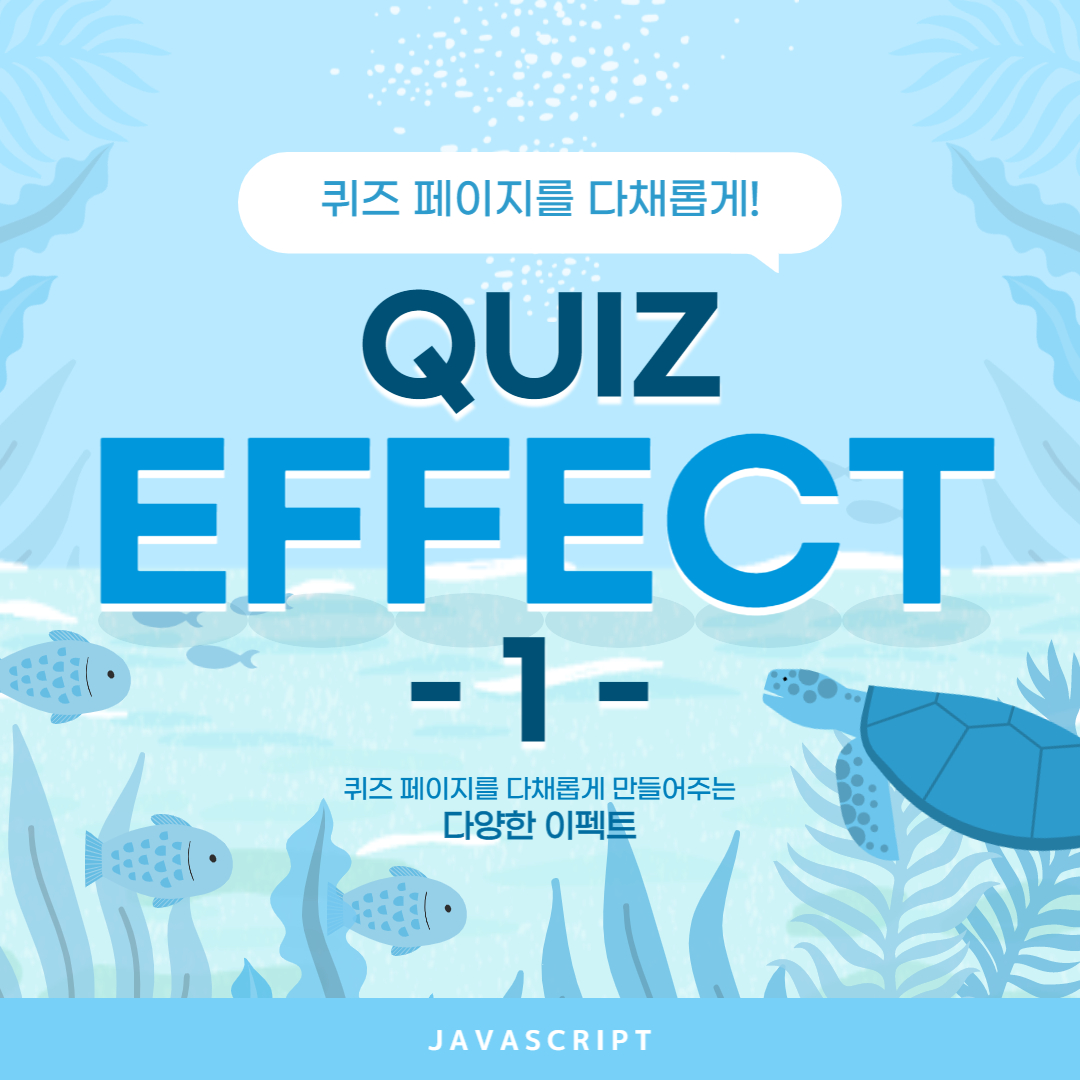
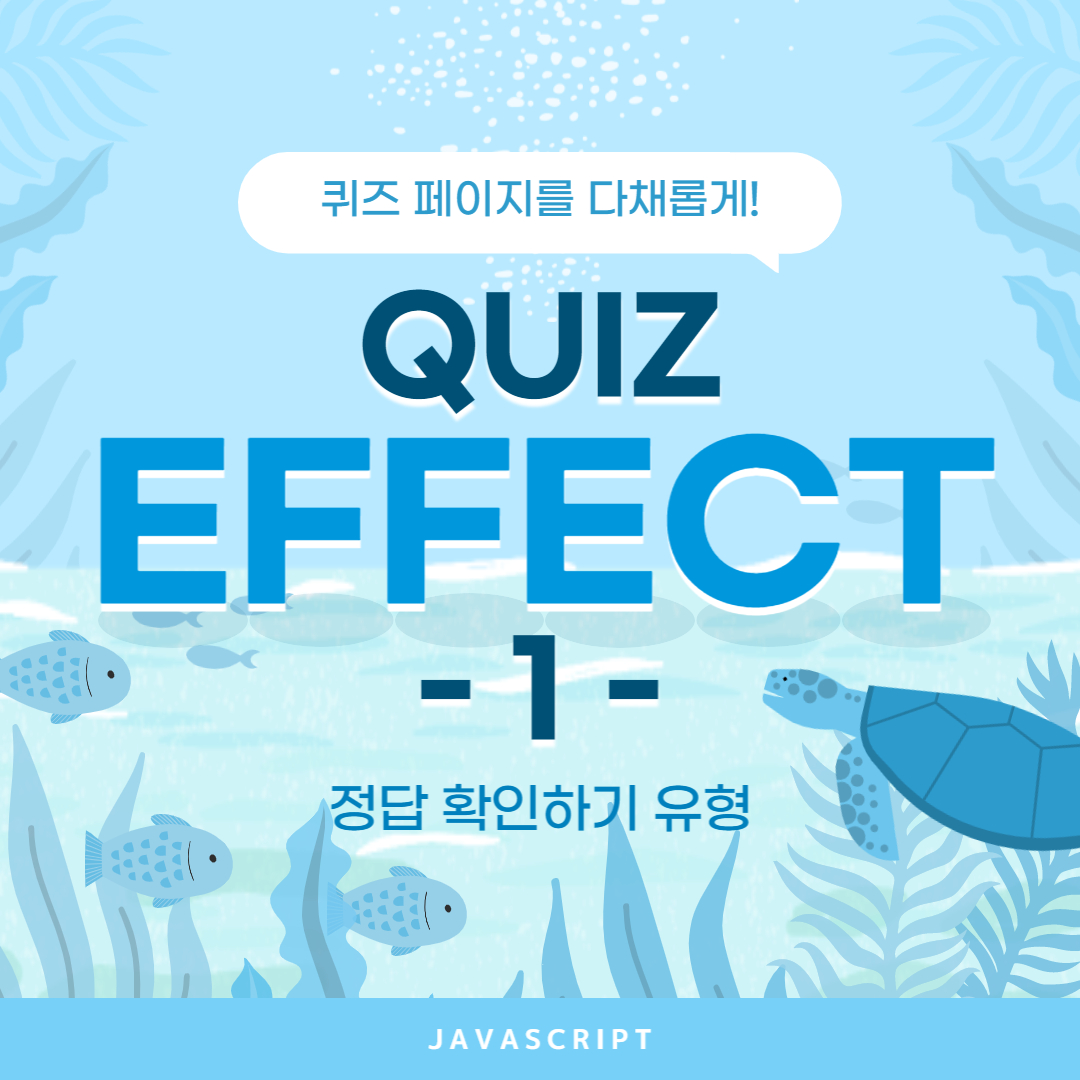
2022.08.04
몇몇 코드를 수정하였습니다.

diff --git a/javascript/study/quiz02.html b/javascript/study/quiz02.html
@@ -1,0 +1,99 @@
+<!DOCTYPE html>
+<html lang="ko">
+
+<head>
+    <meta charset="UTF-8">
+    <meta http-equiv="X-UA-Compatible" content="IE=edge">
+    <meta name="viewport" content="width=device-width, initial-scale=1.0">
+    <title>자바스크립트 : 기본 규칙</title>
+    <link rel="stylesheet" href="../assets/css/style.css">
+    <link rel="stylesheet" href="../assets/css/dracula.css">
+</head>
+
+<body>
+    <main id="main">
+        <div class="document">
+            <h2 class="t_tit">퀴즈 이펙트</h2>
+            <p class="t_desc2">
+                퀴즈를 풀 수 있는 페이지를 구성할 때에, 퀴즈의 유형에 맞는 다양한 이펙트를 사용하면
+                단조롭지 않은 생동감 넘치는 페이지를 만들 수 있습니다.
+            </p>
+
+            <h3 class="t_tit2">주관식 유형</h3>
+            <p class="t_desc">
+                주관식 답을 적으면 정답인지 오답인지 비교한 후, 정답/오답이라는 문구와 함께 정답을 보여주는 이펙트입니다.
+            </p>
+            <div class="t_iframe" style="min-height: 980px; padding-top: 0;">
+                <iframe src="https://hjkang306.github.io/coding2/javascript/effect/quizEffect02.html" frameborder="0"></iframe>
+            </div>
+            <div class="t_link">
+                <a href="https://github.com/hjkang306/coding2/blob/main/javascript/effect/quizEffect02.html">원본 소스 보기</a>
+            </div>
+            <br>
+            <p class="t_desc">
+                해당 이펙트의 자바스크립트는 다음과 같습니다.
+                먼저 선택자를 지정한 후, 각각의 선택자로 지정한 구역에 알맞은 정보를 대입하는 것은 정답 확인하기 유형과 같습니다.
+                주관식 유형은 입력받은 정보를 정답과 비교하여, 정답과 오답일 때에 각각의 상황에 맞는 실행문을 작동하도록 if문을 사용합니다.
+            </p>
+            <div class="t_code">
+<pre><code class="language-js">//선택자
+const quizType = document.querySelector(".quiz__type");                  //퀴즈 종류
+const quizNumber = document.querySelector(".quiz__question .number");    //퀴즈 번호
+const quizAsk = document.querySelector(".quiz__question .ask");          //퀴즈 질문
+const quizConfilm = document.querySelector(".quiz__answer .confilm");    //정답 확인 버튼
+const quizresult = document.querySelector(".quiz__answer .result");      //정답 결과
+const quizInput = document.querySelector(".quiz__answer .input");        //사용자 정답
+const quizView = document.querySelector(".quiz__view");        //사용자 정답
+
+//문제 정보
+const answerType = "웹디자인기능사";
+const answerNum = "2.";
+const answerAsk = "기업의 새로운 이념 구축에 필요한 이미지와 커뮤니케이션 시스템을 의도적, 계획적으로 만들어내는 기업 이미지 통합 전략은 무엇인가요?";
+let answerResult = "CIP";
+
+//문제 출력
+quizType.textContent = answerType;      //innerText 대신 textContent를 사용해도 같습니다. 둘은 비슷하나 호환성의 차이가 있습니다.
+quizNumber.textContent = answerNum; //innerText는 인터넷익스플로러 환경에는 호환되지 않습니다.
+quizAsk.textContent = answerAsk;
+quizresult.textContent = "정답은 : " + answerResult + "입니다.";
+
+//정답 숨기기
+quizresult.style.display = "none";
+
+//정답 확인
+quizConfilm.addEventListener("click", () => { //정답을 클릭했을 때 함수를 실행. 함수는 화살표 함수로 쓸 수도 있습니다.
+    quizInput.style.display = "none";
+    quizresult.style.display = "block";
+    quizConfilm.style.display = "none";
+
+    //사용자 정답
+    const userWord = quizInput.value.toLowerCase().trim(); //toLowerCase():소문자로 바꿔줍니다.
+    answerResult = answerResult.toLowerCase().trim();   //trim()여백을 없애줍니다.
+
+    //사용자 정답 == 문제 정답
+    if(userWord == answerResult) {
+        //정답일 때
+        quizView.classList.add("like"); //클래스에 like를 추가합니다.
+    } else {
+        //오답일 때
+        quizView.classList.add("dislike");  //클래스에 dislike를 추가합니다.
+    }
+});
+</code></pre>
+            </div>
+        </div>
+    </main>
+    <!-- //main -->
+
+    <footer id="footer">
+        <a href="mailto:hjkang306@naver.com">hjkang306@naver.com</a>
+    </footer>
+    <!-- //footer -->
+
+    <script src="../assets/js/highlight.min.js"></script>
+    <script>
+        hljs.highlightAll();
+    </script>
+</body>
+
+</html>

diff --git a/javascript/study/quiz01.html b/javascript/study/quiz01.html
@@ -18,7 +18,7 @@
                 퀴즈를 풀 수 있는 페이지를 구성할 때에, 퀴즈의 유형에 맞는 다양한 이펙트를 사용하면
                 단조롭지 않은 생동감 넘치는 페이지를 만들 수 있습니다.
             </p>
-            <h3 class="t_tit2">01. 정답 확인하기 유형</h3>
+            <h3 class="t_tit2">정답 확인하기 유형</h3>
             <p class="t_desc">
                 버튼을 누르면 정답을 보여주는 유형의 문제에 활용가능한 이펙트입니다.
             </p>
@@ -59,69 +59,6 @@ quizResult.style.display = "none";
 quizConfilm.addEventListener("click", function(){    //버튼을 클릭하면 실행하라는 의미입니다.
     quizConfilm.style.display = "none";
     quizResult.style.display = "block";
-});
-</code></pre>
-            </div>
-
-            <h3 class="t_tit2">02. 주관식 유형</h3>
-            <p class="t_desc">
-                주관식 답을 적으면 정답인지 오답인지 비교한 후, 정답/오답이라는 문구와 함께 정답을 보여주는 이펙트입니다.
-            </p>
-            <div class="t_iframe" style="min-height: 980px; padding-top: 0;">
-                <iframe src="https://hjkang306.github.io/coding2/javascript/effect/quizEffect02.html" frameborder="0"></iframe>
-            </div>
-            <div class="t_link">
-                <a href="https://github.com/hjkang306/coding2/blob/main/javascript/effect/quizEffect02.html">원본 소스 보기</a>
-            </div>
-            <br>
-            <p class="t_desc">
-                해당 이펙트의 자바스크립트는 다음과 같습니다.
-                먼저 선택자를 지정한 후, 각각의 선택자로 지정한 구역에 알맞은 정보를 대입하는 것은 정답 확인하기 유형과 같습니다.
-                주관식 유형은 입력받은 정보를 정답과 비교하여, 정답과 오답일 때에 각각의 상황에 맞는 실행문을 작동하도록 if문을 사용합니다.
-            </p>
-            <div class="t_code">
-<pre><code class="language-js">//선택자
-const quizType = document.querySelector(".quiz__type");                  //퀴즈 종류
-const quizNumber = document.querySelector(".quiz__question .number");    //퀴즈 번호
-const quizAsk = document.querySelector(".quiz__question .ask");          //퀴즈 질문
-const quizConfilm = document.querySelector(".quiz__answer .confilm");    //정답 확인 버튼
-const quizresult = document.querySelector(".quiz__answer .result");      //정답 결과
-const quizInput = document.querySelector(".quiz__answer .input");        //사용자 정답
-const quizView = document.querySelector(".quiz__view");        //사용자 정답
-
-//문제 정보
-const answerType = "웹디자인기능사";
-const answerNum = "2.";
-const answerAsk = "기업의 새로운 이념 구축에 필요한 이미지와 커뮤니케이션 시스템을 의도적, 계획적으로 만들어내는 기업 이미지 통합 전략은 무엇인가요?";
-let answerResult = "CIP";
-
-//문제 출력
-quizType.textContent = answerType;      //innerText 대신 textContent를 사용해도 같습니다. 둘은 비슷하나 호환성의 차이가 있습니다.
-quizNumber.textContent = answerNum; //innerText는 인터넷익스플로러 환경에는 호환되지 않습니다.
-quizAsk.textContent = answerAsk;
-quizresult.textContent = "정답은 : " + answerResult + "입니다.";
-
-//정답 숨기기
-quizresult.style.display = "none";
-
-//정답 확인
-quizConfilm.addEventListener("click", () => { //정답을 클릭했을 때 함수를 실행. 함수는 화살표 함수로 쓸 수도 있습니다.
-    quizInput.style.display = "none";
-    quizresult.style.display = "block";
-    quizConfilm.style.display = "none";
-
-    //사용자 정답
-    const userWord = quizInput.value.toLowerCase().trim(); //toLowerCase():소문자로 바꿔줍니다.
-    answerResult = answerResult.toLowerCase().trim();   //trim()여백을 없애줍니다.
-
-    //사용자 정답 == 문제 정답
-    if(userWord == answerResult) {
-        //정답일 때
-        quizView.classList.add("like"); //클래스에 like를 추가합니다.
-    } else {
-        //오답일 때
-        quizView.classList.add("dislike");  //클래스에 dislike를 추가합니다.
-    }
 });
 </code></pre>
             </div>
